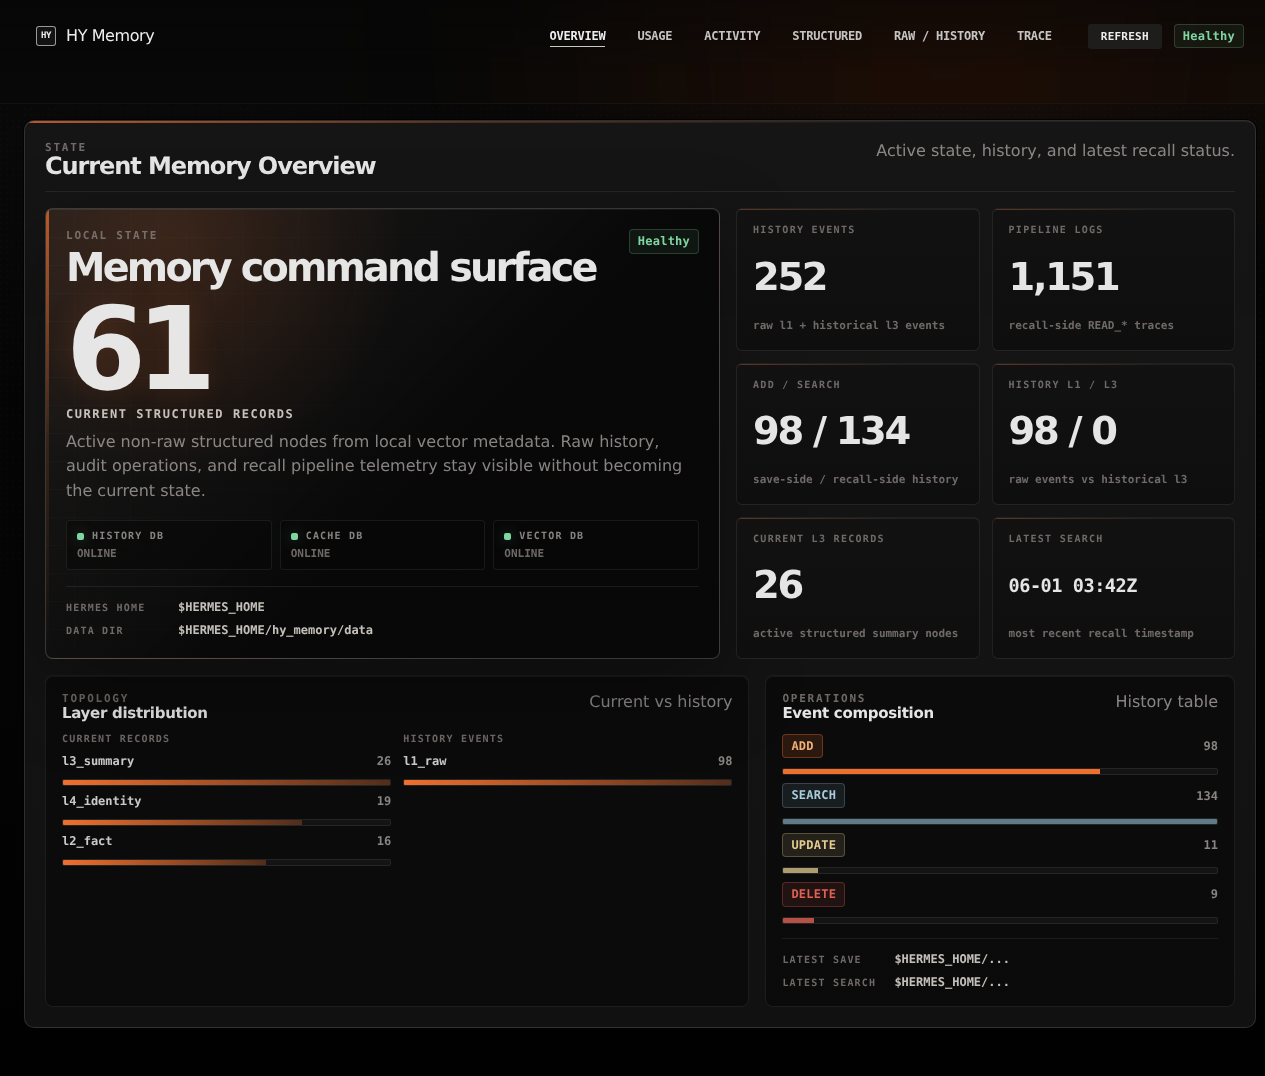
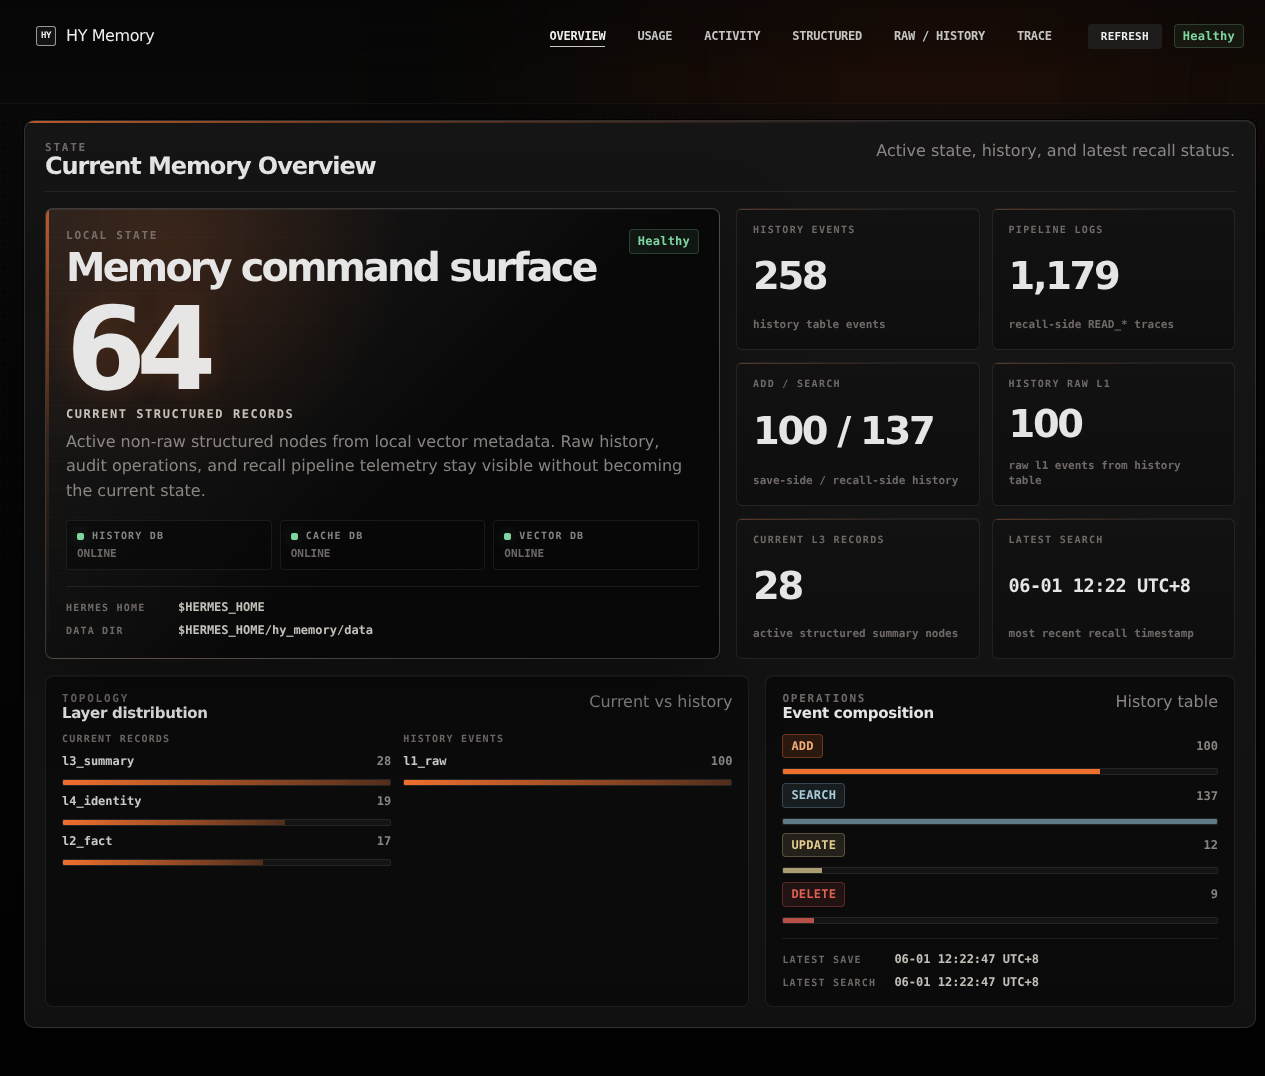
fix: clarify overview counts and local time

diff --git a/dashboard.py b/dashboard.py
@@ -936,10 +936,27 @@ function sourceNode(label, status) {
   const ok = status === 'ok';
   return `<div class="source-node ${ok ? 'ok' : 'error'}" data-source-status="${esc(label)}:${esc(status || 'missing')}"><div class="source-node-head"><span class="source-dot" aria-hidden="true"></span><span>${esc(label)}</span></div><div class="source-node-status">${ok ? 'online' : esc(status || 'missing')}</div></div>`;
 }
-function compactTimestamp(value) {
+function localOffsetLabel(date) {
+  const offsetMinutes = -date.getTimezoneOffset();
+  const sign = offsetMinutes >= 0 ? '+' : '-';
+  const absolute = Math.abs(offsetMinutes);
+  const hours = Math.floor(absolute / 60);
+  const minutes = absolute % 60;
+  return minutes ? `UTC${sign}${String(hours).padStart(2, '0')}:${String(minutes).padStart(2, '0')}` : `UTC${sign}${hours}`;
+}
+function localTimestamp(value, withSeconds = false) {
   const text = String(value || '—');
-  const match = text.match(/^([0-9]{4})-([0-9]{2})-([0-9]{2})T([0-9]{2}):([0-9]{2}):[0-9]{2}/);
-  return match ? `${match[2]}-${match[3]} ${match[4]}:${match[5]}Z` : text;
+  const parsed = new Date(text);
+  if (!text || text === '—' || Number.isNaN(parsed.getTime())) return text;
+  const month = String(parsed.getMonth() + 1).padStart(2, '0');
+  const day = String(parsed.getDate()).padStart(2, '0');
+  const hour = String(parsed.getHours()).padStart(2, '0');
+  const minute = String(parsed.getMinutes()).padStart(2, '0');
+  const second = String(parsed.getSeconds()).padStart(2, '0');
+  return `${month}-${day} ${hour}:${minute}${withSeconds ? `:${second}` : ''} ${localOffsetLabel(parsed)}`;
+}
+function compactTimestamp(value) {
+  return localTimestamp(value, false);
 }
 function overviewStat(label, value, hint = '', titleValue = value) {
   const text = String(value ?? '—');
@@ -947,9 +964,10 @@ function overviewStat(label, value, hint = '', titleValue = value) {
   const compact = text.length > 10;
   return `<div class="overview-stat"><div class="overview-label">${esc(label)}</div><div class="overview-value ${compact ? 'overview-value-compact' : ''}" title="${esc(title)}">${esc(text)}</div><div class="overview-hint">${esc(hint)}</div></div>`;
 }
-function overviewPathRow(label, value) {
+function overviewPathRow(label, value, titleValue = value) {
   const text = String(value || '—');
-  return `<div class="overview-path-row"><div class="overview-path-label">${esc(label)}</div><div class="overview-path-value" title="${esc(text)}">${esc(text)}</div></div>`;
+  const title = String(titleValue || text);
+  return `<div class="overview-path-row"><div class="overview-path-label">${esc(label)}</div><div class="overview-path-value" title="${esc(title)}">${esc(text)}</div></div>`;
 }
 function overviewLayerRows(counts, emptyLabel) {
   const entries = Object.entries(counts || {}).sort((a, b) => Number(b[1] || 0) - Number(a[1] || 0) || String(a[0]).localeCompare(String(b[0])));
@@ -1005,7 +1023,6 @@ async function loadOverview() {
     const countPrefix = (counts, prefix) => Object.entries(counts).reduce((total, [layer, count]) => total + (String(layer).startsWith(prefix) ? Number(count || 0) : 0), 0);
     const currentL3 = countPrefix(recordLayerCounts, 'l3');
     const historyL1 = countPrefix(historyLayerCounts, 'l1');
-    const historyL3 = countPrefix(historyLayerCounts, 'l3');
     const latestSave = latestSaveTime(data.latest || {});
     const latestSearch = (data.latest || {}).SEARCH || '—';
     document.getElementById('overview').innerHTML = `
@@ -1031,10 +1048,10 @@ async function loadOverview() {
           </div>
         </section>
         <aside class="overview-matrix" data-overview-matrix>
-          ${overviewStat('History events', formatCount(data.totals.history_events), 'raw l1 + historical l3 events')}
+          ${overviewStat('History events', formatCount(data.totals.history_events), 'history table events')}
           ${overviewStat('Pipeline logs', formatCount(data.totals.pipeline_logs), 'recall-side READ_* traces')}
           ${overviewStat('ADD / SEARCH', `${formatCount(data.event_counts.ADD)} / ${formatCount(data.event_counts.SEARCH)}`, 'save-side / recall-side history')}
-          ${overviewStat('History L1 / L3', `${formatCount(historyL1)} / ${formatCount(historyL3)}`, 'raw events vs historical l3')}
+          ${overviewStat('History raw L1', formatCount(historyL1), 'raw l1 events from history table')}
           ${overviewStat('Current L3 records', formatCount(currentL3), 'active structured summary nodes')}
           ${overviewStat('Latest search', compactTimestamp(latestSearch), 'most recent recall timestamp', latestSearch)}
         </aside>
@@ -1050,8 +1067,8 @@ async function loadOverview() {
             <div class="overview-panel-head"><div><div class="eyebrow">Operations</div><h3 class="overview-panel-title">Event composition</h3></div><div class="subtle">History table</div></div>
             ${overviewEventRows(data.event_counts)}
             <div class="overview-paths" style="margin-top:14px">
-              ${overviewPathRow('Latest save', latestSave)}
-              ${overviewPathRow('Latest search', latestSearch)}
+              ${overviewPathRow('Latest save', localTimestamp(latestSave, true), latestSave)}
+              ${overviewPathRow('Latest search', localTimestamp(latestSearch, true), latestSearch)}
             </div>
           </section>
         </div>

diff --git a/tests/test_dashboard_server.py b/tests/test_dashboard_server.py
@@ -37,7 +37,8 @@ def test_dashboard_serves_html_and_json_endpoints(tmp_path):
         assert "Raw / History Memory Records" in html
         assert "historyLayerFilter" in html
         assert "/api/history-records" in html
-        assert "History L1 / L3" in html
+        assert "History raw L1" in html
+        assert "History L1 / L3" not in html
         assert "Current L3 records" in html
         assert 'id="sectionNav"' in html
         assert 'data-view="activity"' in html
@@ -61,8 +62,18 @@ def test_dashboard_serves_html_and_json_endpoints(tmp_path):
         assert ".overview-value { max-width: 100%; min-width: 0; overflow: hidden;" in html
         assert ".overview-value-compact" in html
         assert "function compactTimestamp" in html
+        assert "function localOffsetLabel" in html
+        assert "new Date(text)" in html
+        assert "getTimezoneOffset" in html
+        assert "${match[2]}-${match[3]} ${match[4]}:${match[5]}Z" not in html
+        assert "function overviewPathRow(label, value, titleValue = value)" in html
+        assert "overviewStat('History raw L1', formatCount(historyL1), 'raw l1 events from history table')" in html
+        assert "const historyL3" not in html
         assert "overviewStat('Latest search', compactTimestamp(latestSearch), 'most recent recall timestamp', latestSearch)" in html
+        assert "overviewPathRow('Latest search', localTimestamp(latestSearch, true), latestSearch)" in html
         assert ".overview-path-value { max-width: 100%; min-width: 0; overflow: hidden;" in html
+        assert "overviewStat('History events', formatCount(data.totals.history_events), 'history table events')" in html
+        assert "historical l3 events" not in html
         assert "overflow-wrap: anywhere" in html
         assert "function metric(label, value)" not in html
         assert 'id="overview" class="grid"' not in html

diff --git a/tests/test_cli_docs.py b/tests/test_cli_docs.py
@@ -70,6 +70,9 @@ def test_readme_documents_local_read_only_dashboard():
     assert "/api/history-records" in readme
     assert "Raw / History Memory Records" in readme
     assert "command-surface overview" in readme
+    assert "History raw L1" in readme
+    assert "Current L3 records" in readme
+    assert "History L1 / L3" not in readme
     assert "docs/screenshots/dashboard-overview.png" in readme
     assert "docs/screenshots/dashboard-usage.png" in readme
     assert "docs/screenshots/dashboard-records.png" in readme
@@ -102,6 +105,9 @@ def test_bundled_skill_documents_installed_dashboard_path():
     assert "l1_raw" in skill
     assert "l3_" in skill
     assert "command-surface overview" in skill
+    assert "History raw L1" in skill
+    assert "Current L3 records" in skill
+    assert "History L1 / L3" not in skill
     assert "copy-id controls" not in skill
 
 

diff --git a/README.md b/README.md
@@ -230,8 +230,8 @@ The screenshots below show the local read-only dashboard with public-safe placeh
 
 Dashboard data sources:
 
-- `history.db.memory_history`: ADD, SEARCH, UPDATE, DELETE history, latest save/recall timestamps, and the Raw / History Memory Records table. This view exposes raw `l1_raw` rows and historical `l3_*` rows when they exist. The overview also shows explicit History L1 / L3 counts so missing L3 data is visible as zero rather than hidden.
-- `vector_db/chroma.sqlite3`: local active vector metadata for Current Structured Memory Records. The current-record table reads active non-`l1_raw` structured nodes from Chroma metadata, so shadowed UPDATE predecessors and raw L1 nodes do not appear as current records.
+- `history.db.memory_history`: ADD, SEARCH, UPDATE, DELETE history, latest save/recall timestamps, and the Raw / History Memory Records table. This view exposes raw `l1_raw` rows and historical structured rows when they exist. The overview shows `History raw L1` from this history table separately from `Current L3 records`, which comes from active vector metadata, so historical zero states do not look like current structured-record mismatches.
+- `vector_db/chroma.sqlite3`: local active vector metadata for Current Structured Memory Records. The current-record table reads active non-`l1_raw` structured nodes such as `l3_*` from Chroma metadata, so shadowed UPDATE predecessors and raw L1 nodes do not appear as current records.
 - `cache.db.memory_operations`: operation/audit log for save-side ADD/UPDATE/SUPERSEDE activity. These rows remain visible through Recent Activity and trace context, but they are not used as current structured memory state.
 - `cache.db.pipeline_logs`: recall pipeline steps such as `READ_*`, request ids, result ids, and elapsed time.
 - `cache.db.system_metrics`: local runtime metric snapshots.

diff --git a/resources/skills/hy-memory-curation/SKILL.md b/resources/skills/hy-memory-curation/SKILL.md
@@ -120,7 +120,7 @@ python "$PLUGIN_CLI" dashboard --hermes-home "${HERMES_HOME:-$HOME/.hermes}" --h
 
 Open `http://127.0.0.1:8765` in a browser. The page uses a sticky top navigation to switch between Overview, Usage, Recent Activity, Current Structured Memory Records, Raw / History Memory Records, and Trace; do not expect every long table to be visible at once. The Overview page uses a command-surface overview layout with a large structured-record status surface, database health rail, telemetry matrix, layer distribution, and event composition panels. Activity, memory records, and raw/history records are paginated at 25 rows per page, with long table cells line-clamped/truncated for scanability. Recent Activity KIND and Raw / History EVENT use type-colored KIND/EVENT badges so ADD, SEARCH, UPDATE, DELETE, and recall pipeline rows are visually distinct. On Current Structured Memory Records and Raw / History Memory Records, click a Content cell to expand that specific cell to its full content, then click it again to collapse back to the truncated preview. The page shows:
 
-- Current overview: database health, history event count, current memory record count, pipeline log count, latest save/search timestamps, and explicit History L1 / L3 plus Current L3 counts.
+- Current overview: database health, history event count, current memory record count, pipeline log count, latest save/search timestamps, `History raw L1` from the history table, and `Current L3 records` from active vector metadata.
 - Memory usage: ADD, SEARCH, UPDATE, DELETE, and recall pipeline counts grouped by hour/day/month.
 - Recent activity: history rows, memory operations, and pipeline steps in reverse chronological order.
 - Memory records: current structured memory ids, layers, users, agents, and content snippets with local filtering. The layer filter is intentionally scoped to current structured records from local active vector metadata in `vector_db/chroma.sqlite3`; shadowed UPDATE predecessors and raw `l1_raw` nodes are not current records.